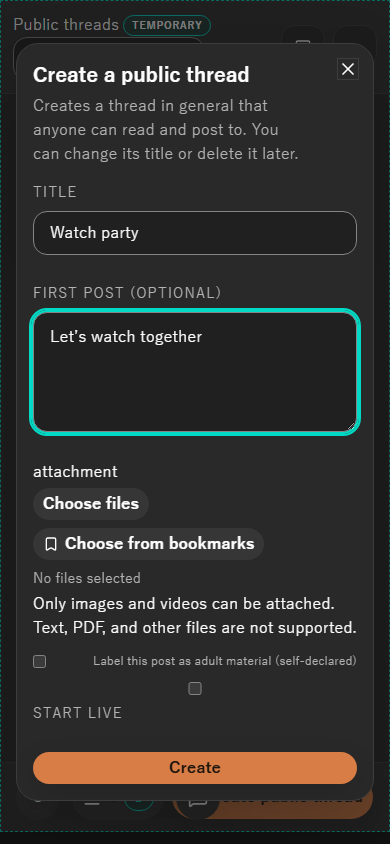
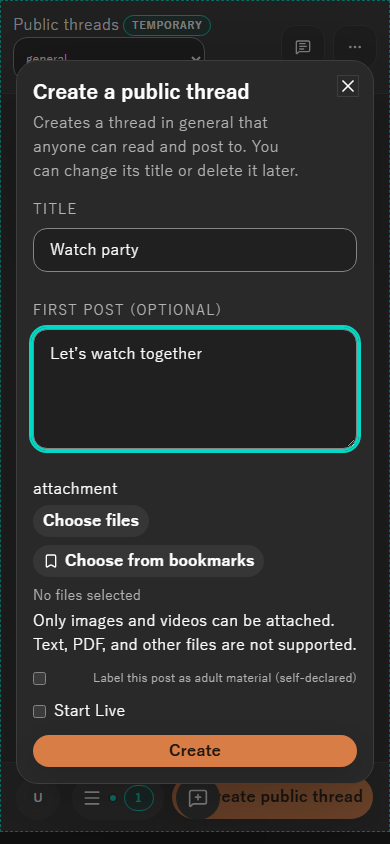
fix(live): 開始チェックと文言を同じ行に揃える

diff --git a/apps/desktop/tests/playwright/public-thread-lives.spec.ts b/apps/desktop/tests/playwright/public-thread-lives.spec.ts
@@ -18,7 +18,18 @@ for (const viewport of [{ width: 1440, height: 900 }, { width: 390, height: 844 
     await create.getByRole('textbox', { name: 'Title' }).fill('Watch party');
     await create.getByRole('textbox', { name: 'First post (optional)' }).fill('Let’s watch together');
     await page.screenshot({ path: info.outputPath('start.png') });
-    await create.getByRole('checkbox', { name: 'Start Live' }).check();
+    const liveToggle = create.getByRole('checkbox', { name: 'Start Live' });
+    const liveLabel = create.getByText('Start Live', { exact: true });
+    const toggleBox = (await liveToggle.boundingBox())!;
+    const labelBox = (await liveLabel.boundingBox())!;
+    expect(toggleBox.x + toggleBox.width).toBeLessThan(labelBox.x);
+    expect(Math.abs(toggleBox.y + toggleBox.height / 2 - labelBox.y - labelBox.height / 2)).toBeLessThanOrEqual(2);
+    await liveLabel.click();
+    await expect(liveToggle).toBeChecked();
+    await liveToggle.press('Space');
+    await expect(liveToggle).not.toBeChecked();
+    await liveToggle.press('Space');
+    await expect(liveToggle).toBeChecked();
     await create.getByRole('button', { name: 'Create', exact: true }).click();
     const detail = activeColumn(page, 'Public thread');
     await expect(detail.getByRole('list', { name: 'Live now' }).getByRole('button', { name: /^Live Watch party / })).toBeVisible();

diff --git a/apps/desktop/src/shell/page/PublicThreadProviders.tsx b/apps/desktop/src/shell/page/PublicThreadProviders.tsx
@@ -344,10 +344,10 @@ function CreatePublicThreadDialog({
             ) : null}
             <ComposerDraftPreviewList items={composerDraftMediaViews(media)} onRemove={removeFile} />
             <ComposerAdultLabelToggle checked={adultLabeled} onChange={setAdultLabeled} />
-            <Label className='flex items-center gap-2'>
+            <label className='flex items-center gap-2'>
               <input type='checkbox' checked={startLive} disabled={pending || Boolean(createdThread)} onChange={(event) => setStartLive(event.target.checked)} />
               <span>{t('live:actions.start')}</span>
-            </Label>
+            </label>
             {startLive ? <LiveThumbnailField value={thumbnail} onChange={setThumbnail} disabled={pending} /> : null}
             {failed ? <p className='error error-inline'>{t('shell:publicThreads.create.failed')}</p> : null}
             <Button type='submit' disabled={pending || !title.trim()}>
